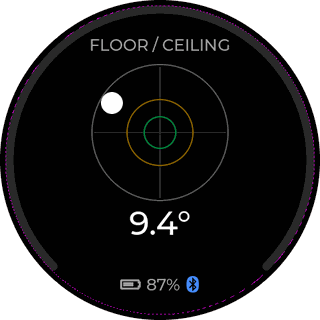
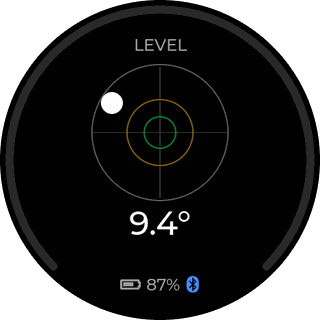
Refresh the device screen images for the one level screen
device-floor, device-floor-off, device-settings-top, device-settings-lower
and device-overview are rendered again from the UI preview: the bubble view
is titled LEVEL, the settings list has no Target angle row, and the overview
shows WALL, LEVEL, a wall screen with the yaw drift warning and the settings.
device-angle.png goes, since the angle mode is gone. The other images match
what the preview drew before the change and stay as they are.

Claude-Session: https://claude.ai/code/session_01HF4pe1rBooFCGroAmjmn4k

diff --git a/README.md b/README.md
@@ -15,7 +15,7 @@ training data (raw IMU and both microphones) for a future on-device model.
 > [bring-up checklist](firmware/README.md#bring-up-checklist-hardware).
 
 <p align="center">
-  <img src="docs/images/device-overview.png" alt="Device screen renders of the level screen and the settings list" width="720">
+  <img src="docs/images/device-overview.png" alt="Device screen renders: the wall view, the level view, a wall view with the yaw drift warning, and the settings list" width="720">
 </p>
 <p align="center"><sub>Device screens rendered on the PC from the real UI code
 (<code>firmware/test_host/ui_preview</code>), with simulated readings. Not photos of hardware.</sub></p>
